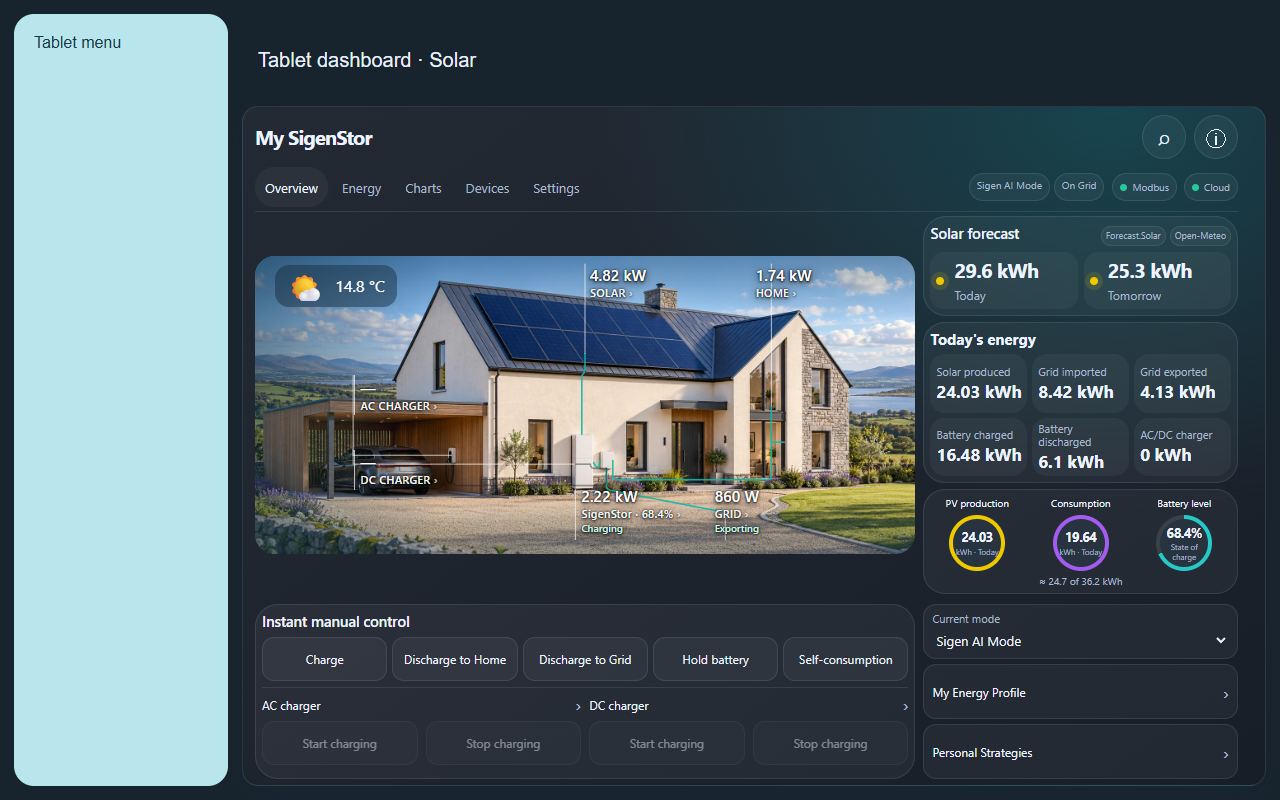
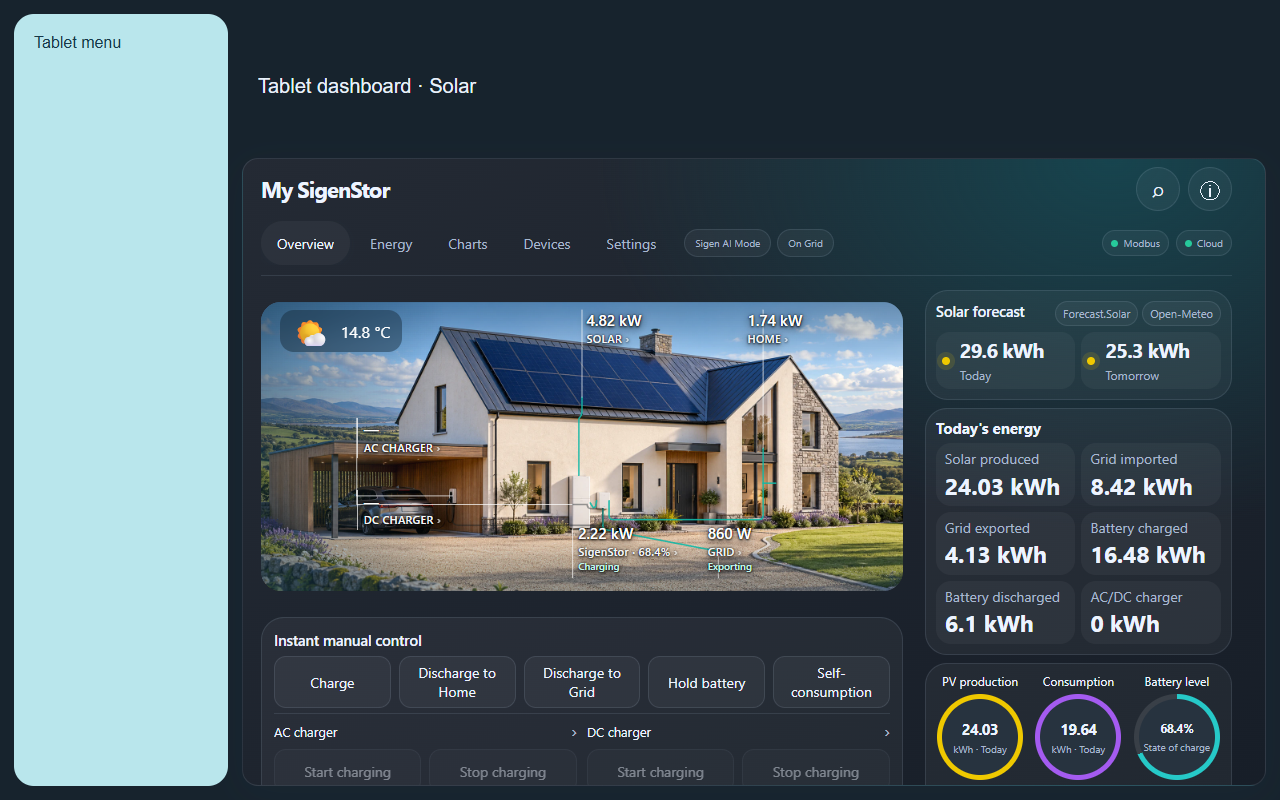
Keep compact summary contents inside panels and test shorter native hosts

diff --git a/custom_components/sigen_hybrid/frontend/sigen-hybrid-fit.js b/custom_components/sigen_hybrid/frontend/sigen-hybrid-fit.js
@@ -27,7 +27,9 @@ export function installHostFit(Card) {
       if (available <= 0) return;
       const value = `${available}px`;
       if (this.style.getPropertyValue('--sigen-host-height') !== value) this.style.setProperty('--sigen-host-height', value);
-      const fit = (box.width >= 950 || box.width >= 740 && available <= box.width * .95) && available >= 600;
+      // Below this space budget, preserve readable controls in a scrollable
+      // layout instead of compressing panels until their contents overlap.
+      const fit = box.width >= 950 && available >= 660;
       this.toggleAttribute('data-sigen-fit', fit);
       this.toggleAttribute('data-sigen-compact-fit', fit && (box.width < 1100 || available < 820));
     };
@@ -101,30 +103,35 @@ ha-card.embedded-shell>main{min-width:0;min-height:0}
 :host([data-sigen-compact-fit]) .compact-overview>.hero{grid-column:1!important}
 :host([data-sigen-compact-fit]) .compact-overview>.overview-sidebar{grid-column:2!important}
 :host([data-sigen-compact-fit]) .compact-overview .main-display-stage{width:100%!important;height:100%!important;max-height:none!important;aspect-ratio:auto!important;min-height:0}
-:host([data-sigen-compact-fit]) .compact-overview .overview-summary-stack{display:grid!important;grid-template-columns:1fr!important;grid-template-rows:auto minmax(0,1fr) auto!important;gap:6px!important;height:100%!important;min-height:0}
+:host([data-sigen-compact-fit]) .compact-overview .overview-summary-stack{display:grid!important;grid-template-columns:1fr!important;grid-template-rows:auto minmax(min-content,1fr) auto!important;gap:6px!important;height:100%!important;min-height:0}
 :host([data-sigen-compact-fit]) .overview-side-module>.panel{padding:6px!important;min-height:0}
 :host([data-sigen-compact-fit]) .overview-side-module h2{font-size:15px!important;margin:0 0 5px!important;line-height:20px}
 :host([data-sigen-compact-fit]) .overview-side-module .section-title{margin-bottom:4px;gap:4px}
 :host([data-sigen-compact-fit]) .overview-forecast-panel .tile{min-height:44px!important;padding:4px 6px!important;gap:9px!important}
 :host([data-sigen-compact-fit]) .overview-forecast-panel .tile strong{font-size:18px!important;line-height:22px}
 :host([data-sigen-compact-fit]) .overview-forecast-panel .tile small{font-size:11px!important;line-height:14px}
+:host([data-sigen-compact-fit]) [data-display-module=forecast] .tile{min-height:44px!important;padding:4px 6px!important;gap:9px!important}
+:host([data-sigen-compact-fit]) [data-display-module=forecast] .tile strong{font-size:18px!important;line-height:22px}
+:host([data-sigen-compact-fit]) [data-display-module=forecast] .tile small{font-size:11px!important;line-height:14px}
 :host([data-sigen-compact-fit]) .forecast-source-badges .badge{font-size:9px!important;min-height:20px!important;padding:2px 4px!important}
 :host([data-sigen-compact-fit]) .overview-energy-metrics{gap:5px!important;grid-template-columns:repeat(3,minmax(0,1fr))!important;grid-template-rows:repeat(2,minmax(44px,1fr))!important}
-:host([data-sigen-compact-fit]) .overview-energy-metric{min-height:44px!important;padding:4px 6px!important}
-:host([data-sigen-compact-fit]) .overview-energy-metric small{font-size:11px!important;line-height:13px;margin-bottom:2px!important}
-:host([data-sigen-compact-fit]) .overview-energy-metric strong{font-size:17px!important;line-height:22px;white-space:nowrap}
-:host([data-sigen-compact-fit]) .overview-summary-ring{max-width:56px!important;padding:4px!important}
+:host([data-sigen-compact-fit]) .overview-energy-metric{min-height:44px!important;padding:3px 6px!important}
+:host([data-sigen-compact-fit]) .overview-energy-metric small{font-size:11px!important;line-height:12px;margin-bottom:1px!important}
+:host([data-sigen-compact-fit]) .overview-energy-metric strong{font-size:17px!important;line-height:20px;white-space:nowrap}
+:host([data-sigen-compact-fit]) .overview-summary-ring{max-width:52px!important;padding:4px!important}
+:host([data-sigen-compact-fit]) .overview-side-module>.overview-circle-panel{padding:4px!important}
 :host([data-sigen-compact-fit]) .overview-circle-label{font-size:10px!important;line-height:13px;min-height:14px!important}
 :host([data-sigen-compact-fit]) .overview-circle-panel .overview-summary-ring strong{font-size:13px!important}
 :host([data-sigen-compact-fit]) .overview-ring-centre small{font-size:8px!important;margin-top:2px}
+:host([data-sigen-compact-fit]) .overview-circle-button{gap:4px!important}
 :host([data-sigen-compact-fit]) .overview-circle-storage{font-size:10px!important;margin-top:4px!important;line-height:12px}
 :host([data-sigen-compact-fit]) .overview-primary-controls>.panel{padding:6px!important}
 :host([data-sigen-compact-fit]) .instant-manual-panel h2{font-size:15px;margin:0!important}
-:host([data-sigen-compact-fit]) .instant-manual-panel>.section-title{margin-bottom:6px!important}
+:host([data-sigen-compact-fit]) .instant-manual-panel>.section-title{margin-bottom:4px!important;line-height:20px}
 :host([data-sigen-compact-fit]) .battery-control-buttons{grid-template-columns:repeat(5,minmax(0,1fr))!important;gap:5px}
 :host([data-sigen-compact-fit]) .control-buttons button{min-height:44px!important;font-size:12px!important;line-height:15px;padding:5px!important}
 :host([data-sigen-compact-fit]) .overview-charger-controls{grid-template-columns:repeat(2,minmax(0,1fr))!important;margin-top:6px!important;padding-top:5px!important;gap:8px}
-:host([data-sigen-compact-fit]) .overview-charger-heading{font-size:12px!important;padding:0 0 4px!important;min-height:24px}
+:host([data-sigen-compact-fit]) .overview-charger-heading{font-size:12px!important;line-height:16px!important;padding:0 0 4px!important;min-height:24px}
 :host([data-sigen-compact-fit]) .overview-device-links{display:grid!important;grid-template-columns:1fr!important;grid-template-rows:repeat(3,minmax(44px,1fr))!important;gap:5px!important;margin:0!important;min-height:0}
 :host([data-sigen-compact-fit]) .overview-device-links>*{grid-column:1!important;min-height:44px!important;font-size:12px!important;padding:6px 8px!important}
 :host([data-sigen-compact-fit]) .overview-mode-control select{min-height:24px!important;font-size:13px!important}

diff --git a/tools/gallery.html b/tools/gallery.html
@@ -5,7 +5,7 @@
 // Reproducible public documentation examples. This page has no credentials or network control client.
 import '../custom_components/sigen_hybrid/frontend/sigen-hybrid-card.js';
 const params=new URLSearchParams(location.search),card=document.querySelector('sigen-hybrid-card'),now=Date.now(),entities={},states={};
-if(params.has('shell')){const header=document.createElement('header');header.textContent='Tablet dashboard · Solar';header.style.cssText='height:92px;display:flex;align-items:center;box-sizing:border-box;padding:16px;font-size:20px';document.body.insertBefore(header,card);}
+if(params.has('shell')){const header=document.createElement('header');header.textContent='Tablet dashboard · Solar';header.style.cssText=`height:${params.has('tall_header')?144:92}px;display:flex;align-items:center;box-sizing:border-box;padding:16px;font-size:20px`;document.body.insertBefore(header,card);}
 const measurements={solar_power:[4.82,'kW'],home_power:[1.74,'kW'],grid_power:[-.86,'kW'],battery_power:[2.22,'kW'],battery_soc:[68.4,'%'],battery_capacity:[36.16,'kWh'],solar_today:[24.03,'kWh'],home_today:[19.64,'kWh'],grid_import_today:[8.42,'kWh'],grid_export_today:[4.13,'kWh'],battery_charge_today:[16.48,'kWh'],battery_discharge_today:[6.1,'kWh'],forecast_today:[29.6,'kWh'],forecast_tomorrow:[25.3,'kWh'],ac_power:[0,'kW'],ac_today:[0,'kWh'],dc_power:[0,'kW'],dc_today:[0,'kWh']};
 for(const [key,[value,unit]] of Object.entries(measurements)){const id='sensor.example_'+key;entities[key]=id;states[id]={entity_id:id,state:String(value),last_updated:new Date(now).toISOString(),attributes:{unit_of_measurement:unit}};}
 for(const [key,value,attributes] of [['control_status','ready',{config_entry_id:'example',control_api_version:1,live_writes_locked:true,connections:{modbus:{enabled:true,status:'connected'},cloud:{enabled:true,status:'connected'}},capabilities:{manual_control:{supported:true,available:false}},native_settings:{mode:{operationMode:0},gateway:{onOffGridStatus:0}}}],['cloud_mode','Sigen AI Mode',{}],['cloud_status','connected',{device_inventory:[{id:'solar',type:'solar',installed:true},{id:'storage',type:'inverter',installed:true},{id:'ac',type:'ac',installed:true},{id:'dc',type:'dc',installed:true}]}],['modbus_status','connected',{}],['forecast_status','ready',{available:true,provider:'average',sources:[{provider:'forecast_solar',name:'Forecast.Solar',available:true},{provider:'open_meteo_solar_forecast',name:'Open-Meteo',available:true}]}]]){const id='sensor.example_'+key;entities[key]=id;states[id]={entity_id:id,state:value,attributes,last_updated:new Date(now).toISOString()};}

diff --git a/CHANGELOG.md b/CHANGELOG.md
@@ -6,7 +6,7 @@
 - Keep installed AC/DC chargers visible from the actual inventory even when a power sensor is not bound. Missing readings remain unknown; explicit entity exclusions are respected. Add the previously missing conditional charger connection paths and detail links to Photo House.
 - Remove blurred image padding. Preserve the photo proportions and align its leaders, installed-device labels and flow paths within the responsive scene.
 - Fit the complete landscape overview below host headers and beside dashboard sidebars. Reflow daily totals into three columns on compact landscape layouts and retain reachable controls in the same composition. Phones and portrait layouts keep their readable scrolling layout.
-- Test both chargers without power bindings, resource upgrades, and whole-layout visibility across 38 browser layout cases plus six resize checks.
+- Test both chargers without power bindings, resource upgrades, and whole-layout visibility across 44 browser layout cases plus 12 resize checks.
 
 ## 0.2.3
 
